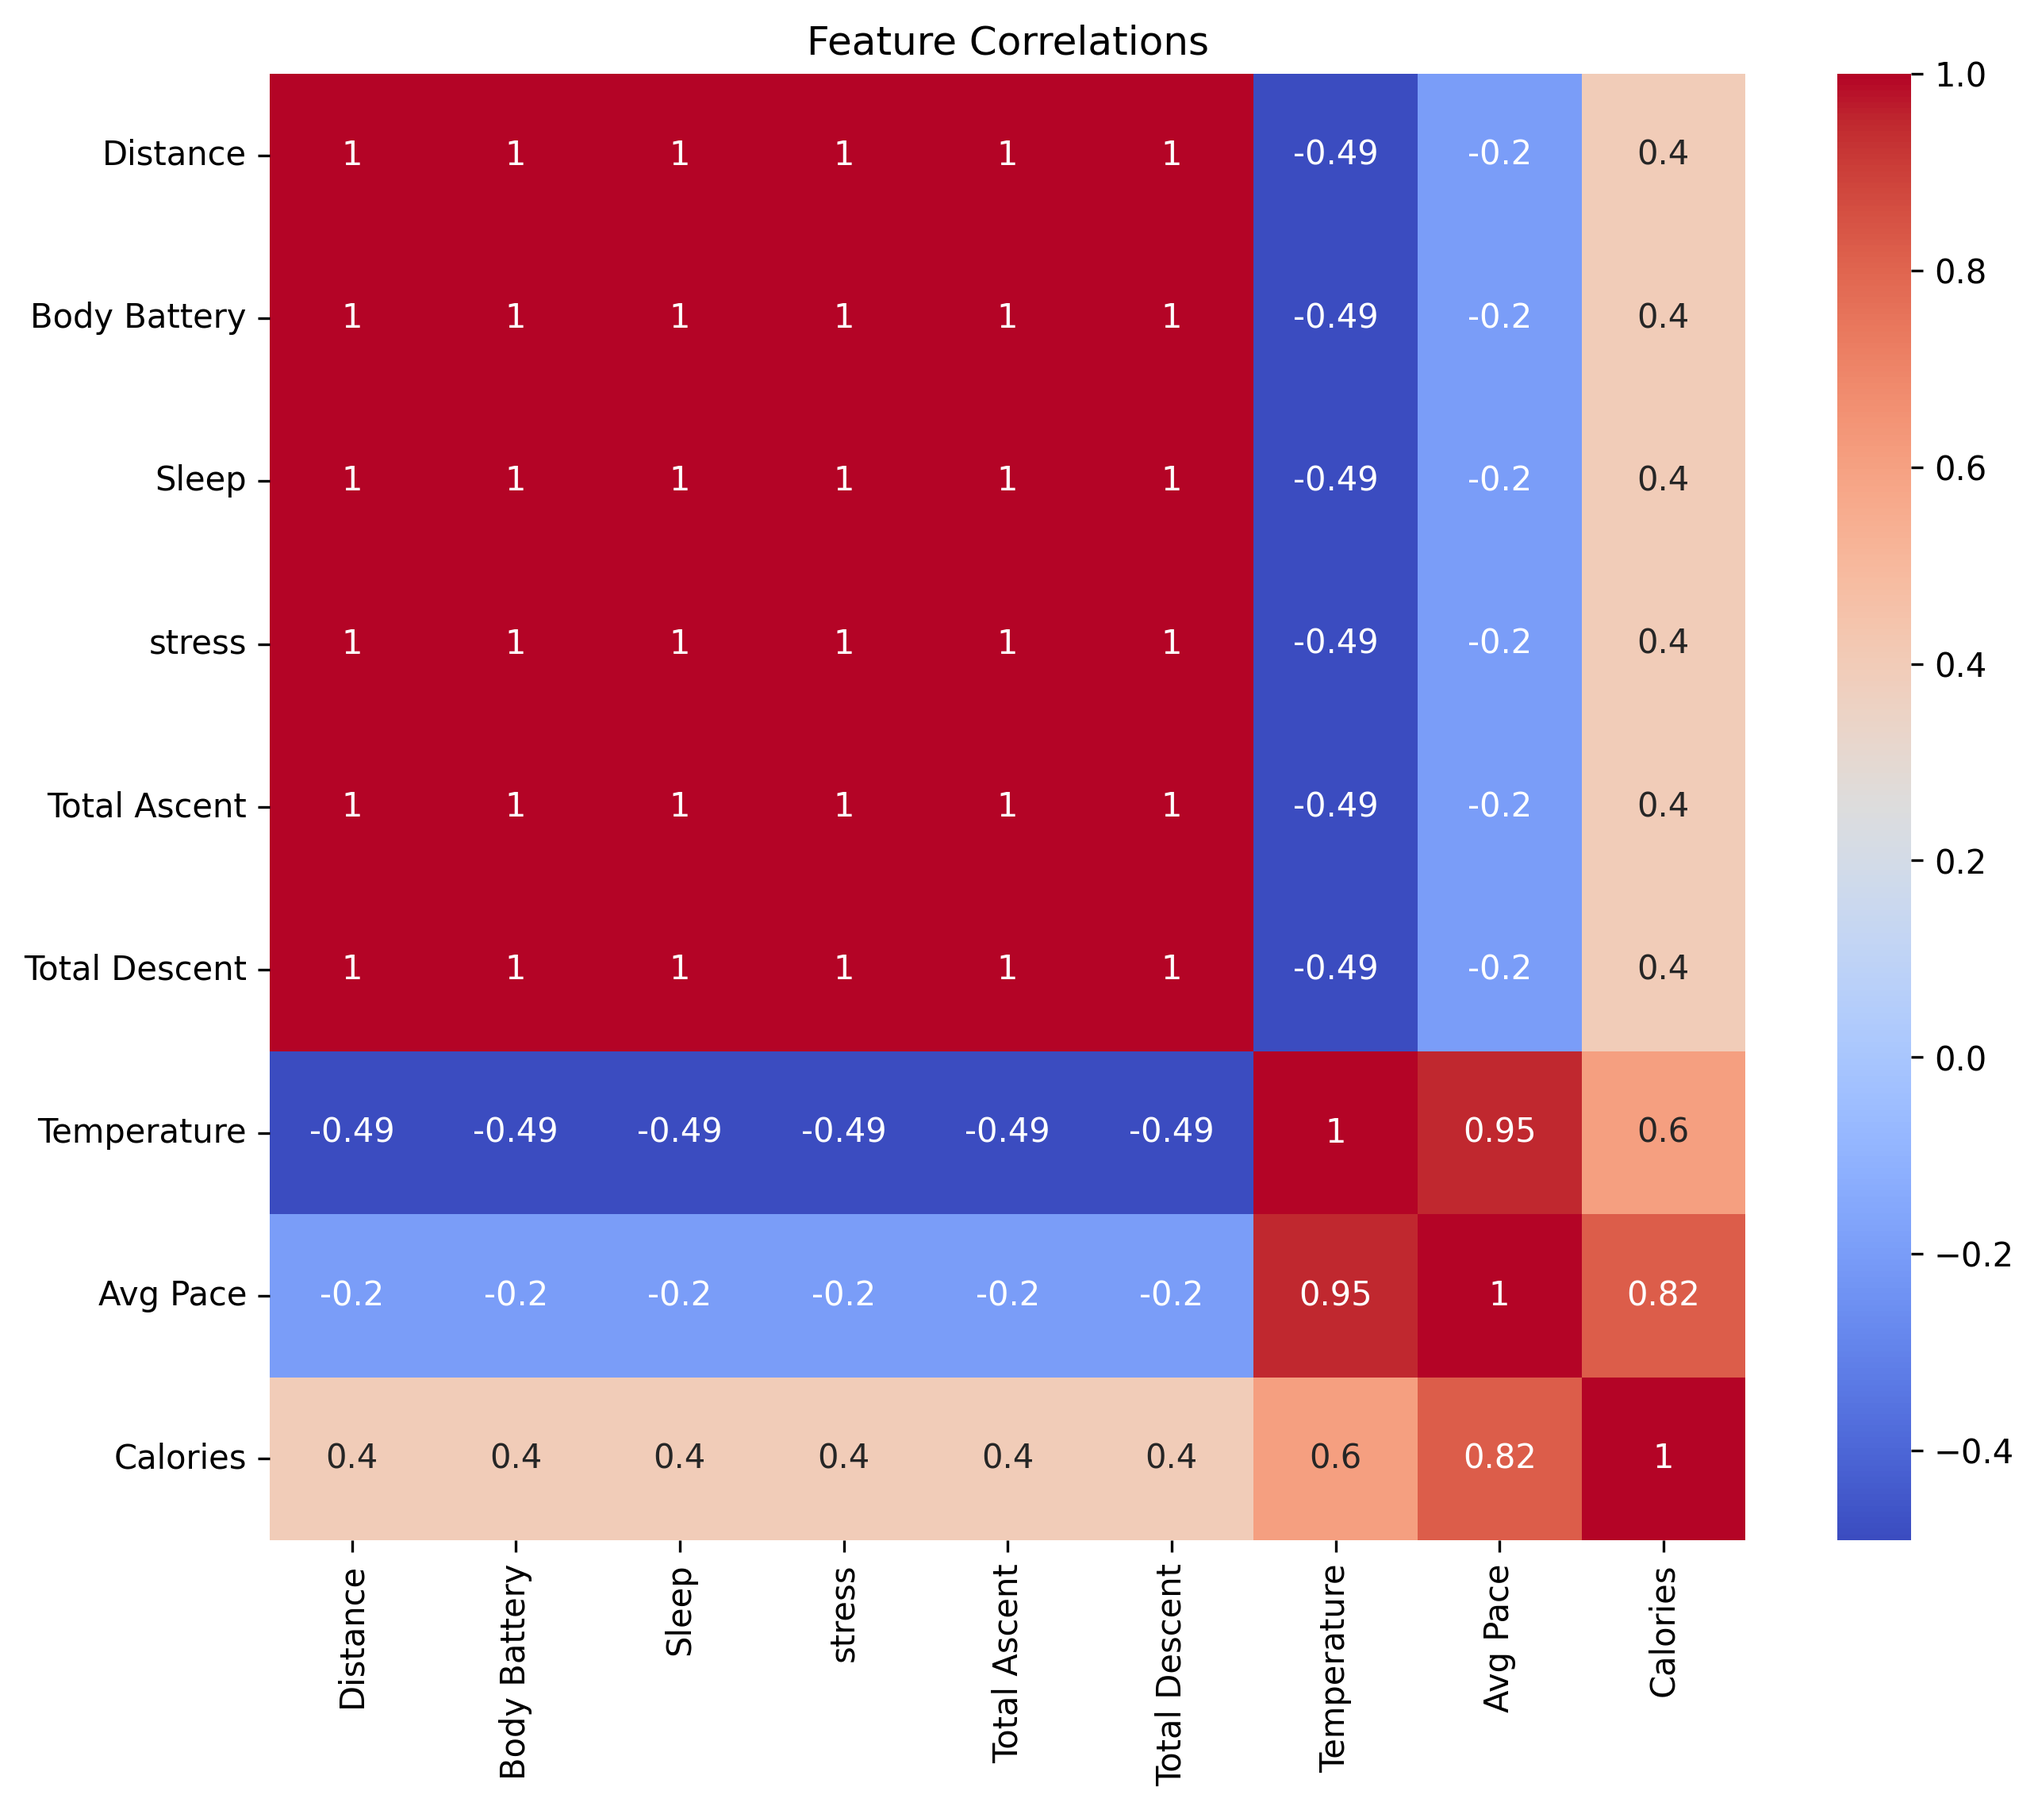
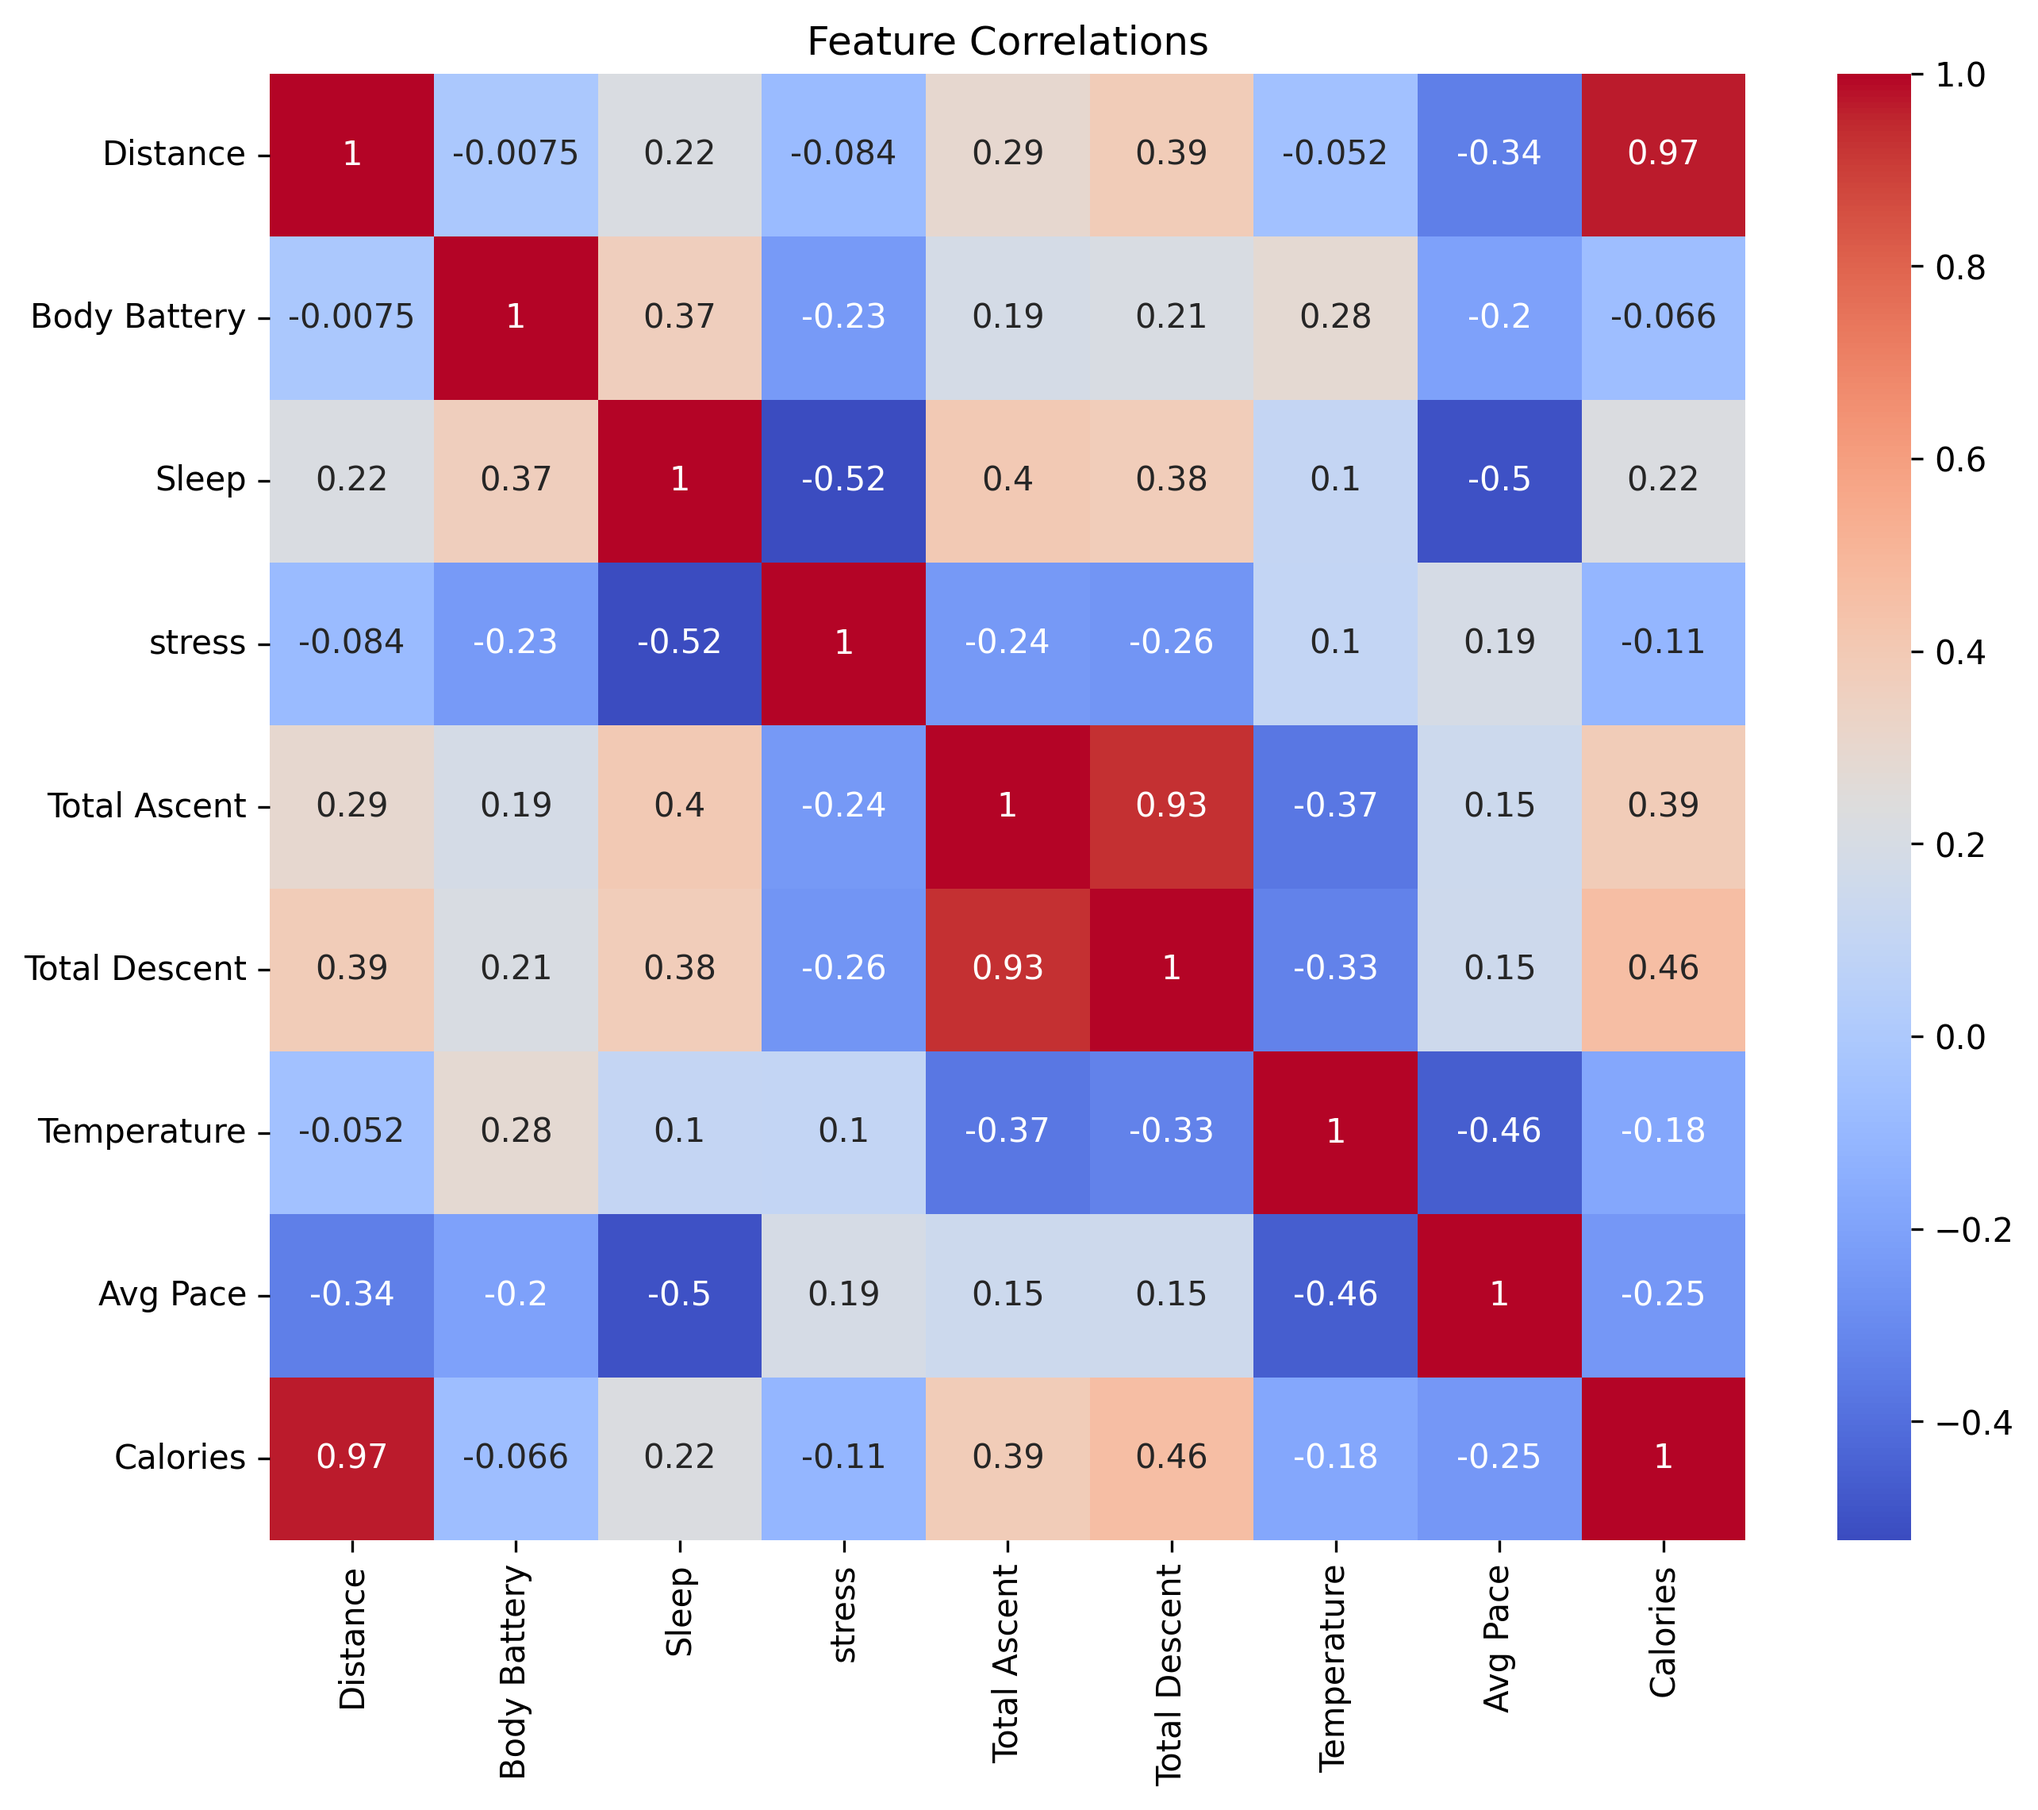
readme file

diff --git a/src/preprocessing.py b/src/preprocessing.py
@@ -106,7 +106,7 @@ def synthetic_data(df_clean, features, num_samples):
     return df_combined
 
 
-def preprocess(df):
+def preprocess(df, syn):
     # Convert Date to datetime
     df["Date"] = pd.to_datetime(df["Date"])
     # Fetch temperatures
@@ -138,7 +138,7 @@ def preprocess(df):
 
     df = df.dropna()  # Drop rows with NaN values
     analysis_data(df, 1)  # Perform analysis on the data
-    df_sys = synthetic_data(df, features, 450)  # Add synthetic data
+    df_sys = synthetic_data(df, features, syn)  # Add synthetic data
     #analysis_data(df_sys, 2)  # Perform analysis again after adding synthetic data
     # Split features and target
     X = df_sys[features].values

diff --git a/main.py b/main.py
@@ -8,12 +8,19 @@ import torch
 import joblib
 import matplotlib.pyplot as plt
 import time
+import yaml
 
 # 1. Load Data
-df = pd.read_csv("src/data/Activities-6.csv")
+with open("config.yaml", "r") as f:
+    config = yaml.safe_load(f)
+
+data_path = config["data_path"]
+df = pd.read_csv(data_path)
+
 
 # 2. Preprocess
-X_scaled, y_scaled = preprocess(df)
+synth_size = config["synthetic_data_size"]
+X_scaled, y_scaled = preprocess(df, synth_size)
 
 # 3. Train model
 # SGD

diff --git a/README.md b/README.md
@@ -1,2 +1,76 @@
 # SmartRunML
-SmartRunML is a Python package that predicts personalized running plans using Garmin data, weather conditions, and route elevation. The model is trained using a neural network and outputs tailored pace and heart rate recommendations based on the input features.
+
+**SmartRunML** is a Python package that predicts personalized running plans using **Garmin data**, **weather conditions**, and **route elevation**.  
+It uses a neural network model to output **tailored running pace** and **estimated calories burned** based on user input.
+
+This project also includes a **Streamlit-based web app** for:
+- Route map generation  
+- Elevation profile visualization  
+- Predictions based on your own physiological and route data
+
+---
+
+## How to Use SmartRunML
+
+SmartRunML helps you build personalized running plans using your own Garmin data and launch a web-based app to visualize predictions.
+
+---
+
+### 1. Installation
+
+Clone the repository and install required packages:
+
+```bash
+git clone https://github.com/Ian-stone-shih/smartrunml.git
+cd smartrunml
+pip install -r requirements.txt
+```
+
+---
+
+### ⚙ 2. Configure Your Dataset
+
+Create or modify the provided `config.yaml` file in the root directory:
+
+```yaml
+data_path: "src/data/Activities-6.csv"   # path to your CSV file
+synthetic_data_size: 450                 # number of synthetic samples to generate
+```
+
+**Note**: In Garmin, features like `Body Battery`, `Sleep`, and `Stress` are stored separately from running activity data.  
+> Your CSV file must contain columns like: Distance, Sleep, Body Battery, Stress, Ascent, Descent, Temperature, Avg Pace, Calories. You are responsible for **manually merging these values** with your running dataset.  
+
+---
+
+### 🧠 3. Train Your Model
+
+Run the following script to preprocess the data, generate synthetic samples, and train the neural network:
+
+```bash
+python main.py
+```
+
+This will:
+- Load your data
+- Add synthetic points
+- Normalize features
+- Train using different optimizers
+- Save scalers and the trained model
+
+---
+
+### 🖥 4. Launch the Web App
+
+After training, launch the Streamlit app with:
+
+```bash
+streamlit run app.py
+```
+
+You can now:
+- Input values like Distance, Sleep, Stress, etc.
+- Visualize the predicted pace and calories
+- See a map and elevation profile for route planning
+
+---
+
